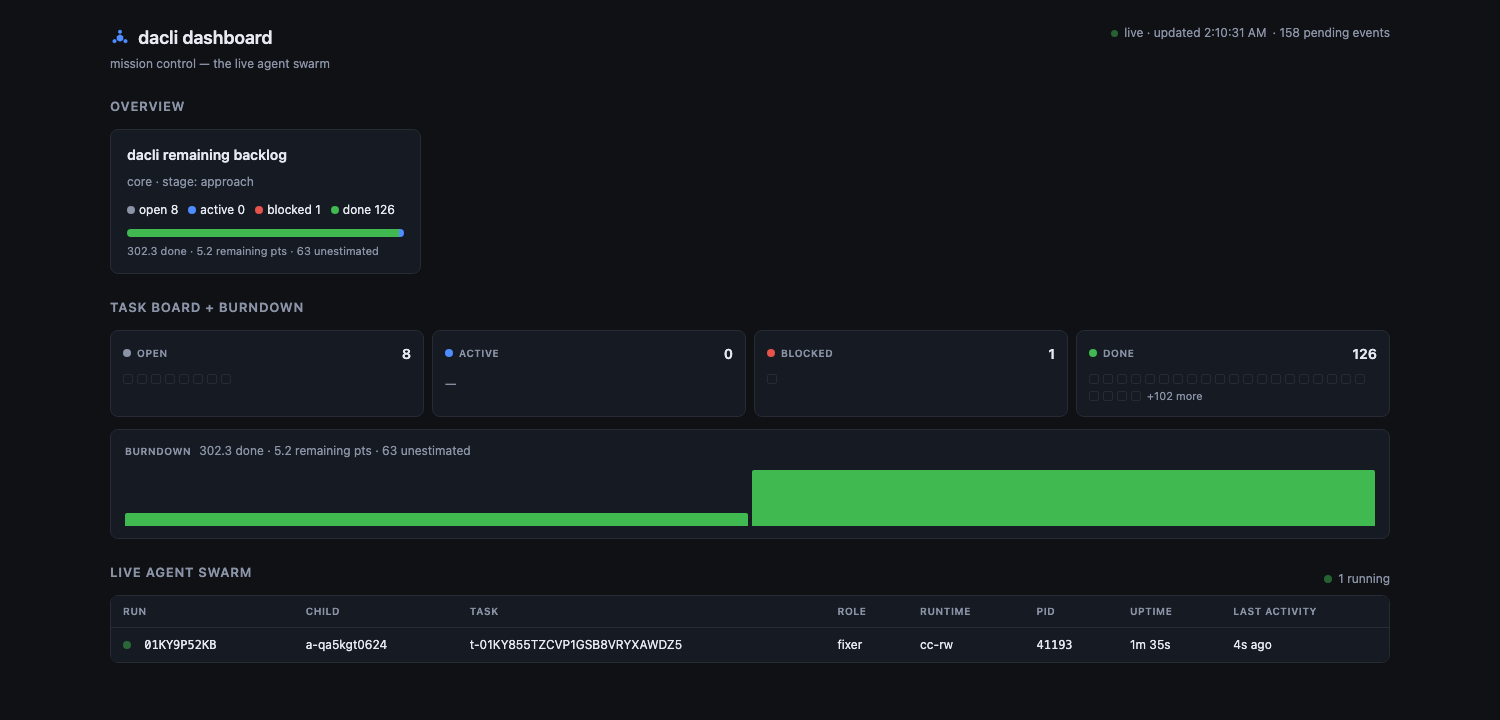
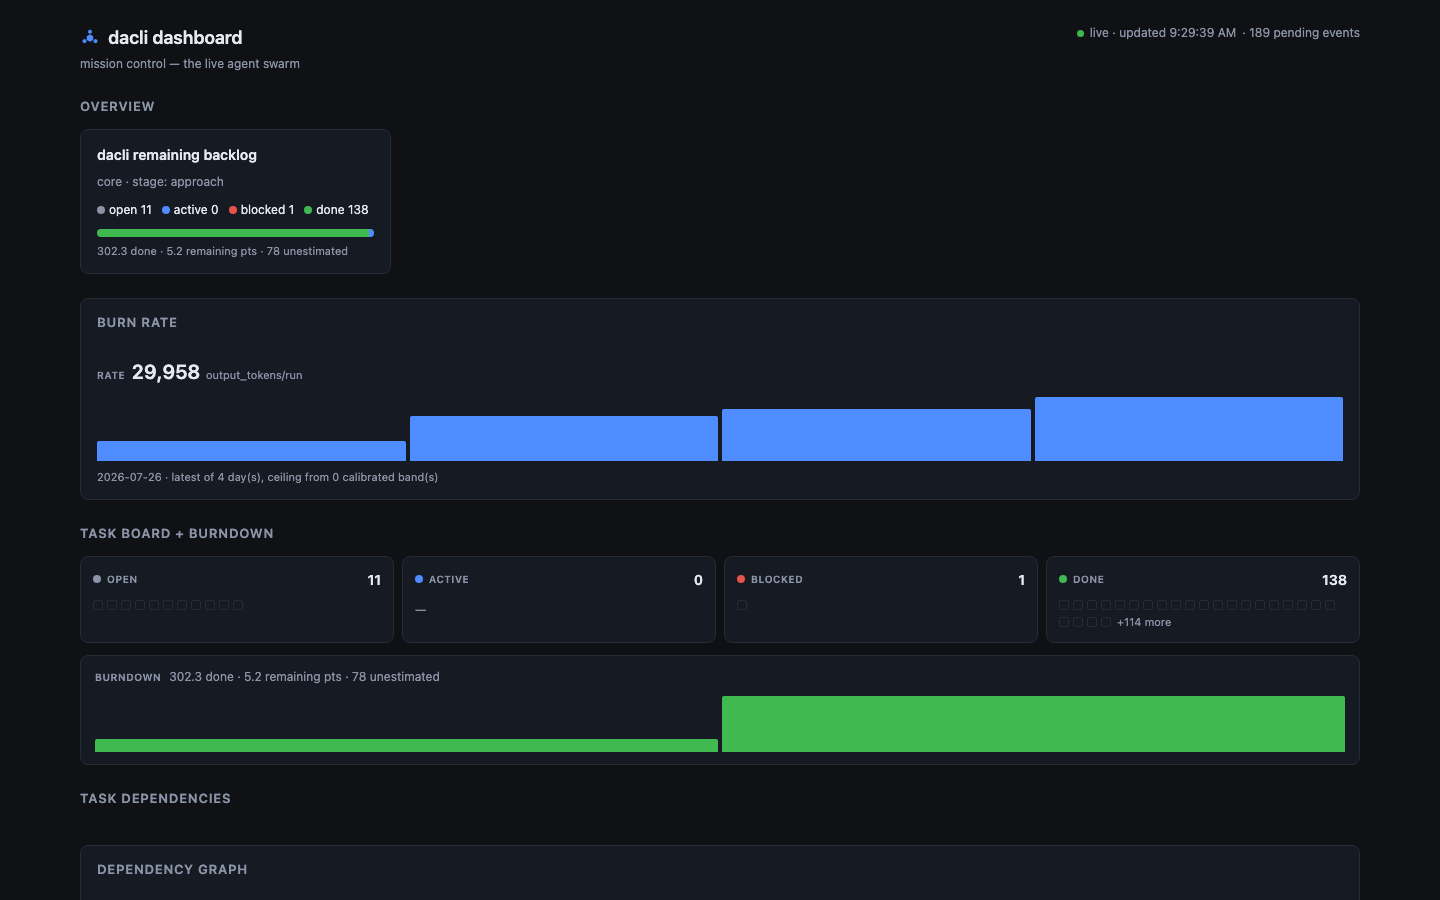
docs: conversion-focused custom landing page
Replace the plain Material markdown home with a custom dark dev-tool
landing (overrides/home.html + stylesheets/landing.css): outcome-led
hero ("Your codebase, run by an AI team"), the new Vue dashboard as the
product visual, the "it built itself / 100+ PRs" proof strip, the loop
flow, a feature bento, a 3-command quickstart, and a closing CTA.
dacli's own identity — lattice mark, blue accent, IBM Plex Mono +
Space Grotesk. Material header set to black so it blends with the
always-dark landing; the docs pages are untouched.

diff --git a/docs/stylesheets/landing.css b/docs/stylesheets/landing.css
@@ -1,0 +1,191 @@
+/* dacli landing — dark dev-tool aesthetic, single blue accent, mono+display.
+   Scoped under .dacli-landing so it never touches the Material docs pages. */
+
+@import url("https://fonts.googleapis.com/css2?family=Space+Grotesk:wght@500;600;700&family=IBM+Plex+Mono:wght@400;500;600&display=swap");
+
+.dacli-landing {
+  --bg: #0a0d13;
+  --bg-1: #0f141d;
+  --bg-2: #141b27;
+  --line: rgba(120, 150, 210, 0.14);
+  --line-2: rgba(120, 150, 210, 0.28);
+  --fg: #e7ecf4;
+  --fg-dim: #9aa8bd;
+  --fg-mute: #6b7688;
+  --accent: #5b8cff;
+  --accent-soft: rgba(91, 140, 255, 0.14);
+  --ok: #3ecf8e;
+  --mono: "IBM Plex Mono", ui-monospace, "SF Mono", Menlo, monospace;
+  --display: "Space Grotesk", system-ui, sans-serif;
+
+  position: relative;
+  background: var(--bg);
+  color: var(--fg);
+  font-family: var(--mono);
+  overflow: hidden;
+  margin: 0 -100vw;          /* break out of Material's centered content column */
+  padding: 0 100vw;
+}
+
+/* atmospherics: faint grid + two accent vignettes, center-masked */
+.dacli-bg {
+  position: absolute; inset: 0; pointer-events: none; z-index: 0;
+  background-image:
+    linear-gradient(var(--line) 1px, transparent 1px),
+    linear-gradient(90deg, var(--line) 1px, transparent 1px);
+  background-size: 56px 56px;
+  -webkit-mask-image: radial-gradient(ellipse 90% 60% at 50% 20%, #000 0%, transparent 75%);
+          mask-image: radial-gradient(ellipse 90% 60% at 50% 20%, #000 0%, transparent 75%);
+  opacity: 0.5;
+}
+.dacli-landing::before {
+  content: ""; position: absolute; inset: 0; z-index: 0; pointer-events: none;
+  background:
+    radial-gradient(60% 40% at 15% 0%, rgba(91,140,255,0.10), transparent 60%),
+    radial-gradient(50% 40% at 100% 30%, rgba(62,207,142,0.06), transparent 60%);
+}
+
+.dacli-landing > * { position: relative; z-index: 1; }
+
+.dacli-landing a { text-decoration: none; }
+.dacli-landing code {
+  font-family: var(--mono); font-size: 0.86em;
+  background: var(--bg-2); border: 1px solid var(--line);
+  border-radius: 6px; padding: 0.14em 0.45em; color: #cfe0ff;
+}
+
+/* section rhythm */
+.dacli-section, .dacli-final { max-width: 1080px; margin: 0 auto; padding: clamp(3rem, 7vh, 5.5rem) 24px; }
+.dacli-label {
+  font-size: 0.7rem; letter-spacing: 0.2em; text-transform: uppercase;
+  color: var(--accent); margin-bottom: 0.9rem;
+}
+.dacli-h1 {
+  font-family: var(--display); font-weight: 700;
+  font-size: clamp(2.4rem, 6vw, 4rem); line-height: 1.04; letter-spacing: -0.02em;
+  margin: 0.5rem 0 0; color: #fafcff;
+}
+.dacli-h2 {
+  font-family: var(--display); font-weight: 600;
+  font-size: clamp(1.5rem, 3.2vw, 2.2rem); line-height: 1.1; letter-spacing: -0.01em;
+  margin: 0 0 0.6rem; color: #fafcff;
+}
+.dacli-lede { color: var(--fg-dim); font-size: 1rem; line-height: 1.6; max-width: 60ch; }
+.dacli-lede--dim { color: var(--fg-mute); }
+.dacli-lede strong, .dacli-sub strong { color: var(--fg); }
+
+/* HERO */
+.dacli-hero {
+  max-width: 1180px; margin: 0 auto;
+  padding: clamp(3rem, 9vh, 6rem) 24px clamp(2rem, 5vh, 3.5rem);
+  display: grid; grid-template-columns: 1.05fr 1fr; gap: clamp(2rem, 5vw, 4rem);
+  align-items: center;
+}
+.dacli-eyebrow {
+  display: inline-block; font-size: 0.72rem; letter-spacing: 0.16em;
+  text-transform: uppercase; color: var(--accent);
+  border: 1px solid var(--line-2); border-radius: 100px; padding: 0.3rem 0.8rem;
+  background: var(--accent-soft);
+}
+.dacli-sub {
+  color: var(--fg-dim); font-size: 1.08rem; line-height: 1.6;
+  max-width: 52ch; margin: 1.1rem 0 0;
+}
+.dacli-cta { display: flex; flex-wrap: wrap; gap: 0.75rem; margin: 1.6rem 0 1.1rem; }
+.dacli-btn {
+  font-family: var(--display); font-weight: 600; font-size: 0.95rem;
+  padding: 0.7rem 1.3rem; border-radius: 10px; border: 1px solid transparent;
+  transition: transform 150ms cubic-bezier(.22,.61,.36,1), box-shadow 150ms, background 150ms, border-color 150ms;
+}
+.dacli-btn--primary {
+  background: var(--accent); color: #06122e;
+  box-shadow: 0 8px 30px -10px rgba(91,140,255,0.6);
+}
+.dacli-btn--primary:hover { transform: translateY(-2px); box-shadow: 0 14px 40px -10px rgba(91,140,255,0.75); }
+.dacli-btn--ghost { color: var(--fg); border-color: var(--line-2); background: rgba(255,255,255,0.02); }
+.dacli-btn--ghost:hover { border-color: var(--accent); color: #fff; transform: translateY(-2px); }
+
+.dacli-install {
+  display: flex; flex-wrap: wrap; align-items: baseline; gap: 0.5rem 0.9rem;
+  padding: 0.7rem 0.9rem; border: 1px solid var(--line); border-radius: 10px;
+  background: var(--bg-1); width: fit-content; max-width: 100%;
+}
+.dacli-install > code { background: transparent; border: none; color: var(--ok); font-size: 0.92rem; padding: 0; }
+.dacli-install__alt { color: var(--fg-mute); font-size: 0.78rem; }
+.dacli-install__alt code { font-size: 0.78rem; }
+.dacli-badges { list-style: none; display: flex; flex-wrap: wrap; gap: 0.5rem; margin: 1.2rem 0 0; padding: 0; }
+.dacli-badges li {
+  font-size: 0.72rem; color: var(--fg-dim);
+  border: 1px solid var(--line); border-radius: 6px; padding: 0.22rem 0.6rem; background: var(--bg-1);
+}
+
+/* hero visual — framed screenshot */
+.dacli-shot {
+  border: 1px solid var(--line-2); border-radius: 14px; overflow: hidden;
+  background: var(--bg-1);
+  box-shadow: 0 30px 80px -30px rgba(0,0,0,0.8), 0 0 0 1px rgba(91,140,255,0.08);
+}
+.dacli-shot__bar { display: flex; gap: 6px; padding: 10px 12px; border-bottom: 1px solid var(--line); background: var(--bg-2); }
+.dacli-shot__bar span { width: 10px; height: 10px; border-radius: 50%; background: var(--fg-mute); opacity: 0.5; }
+.dacli-shot img { display: block; width: 100%; height: auto; }
+.dacli-shot__cap { text-align: center; color: var(--fg-mute); font-size: 0.78rem; margin: 0.7rem 0 0; }
+
+/* PROOF strip */
+.dacli-proof {
+  border-top: 1px solid var(--line); border-bottom: 1px solid var(--line);
+  background: linear-gradient(180deg, rgba(91,140,255,0.04), transparent);
+}
+.dacli-proof p {
+  max-width: 1080px; margin: 0 auto; padding: 1.6rem 24px;
+  color: var(--fg-dim); font-size: 0.98rem; line-height: 1.7; text-align: center;
+}
+.dacli-proof__num { color: var(--accent); font-weight: 600; font-size: 1.15em; }
+.dacli-proof__sep { display: block; color: var(--fg-mute); font-size: 0.85rem; margin-top: 0.3rem; }
+
+/* flow */
+.dacli-flow { display: flex; flex-wrap: wrap; align-items: center; gap: 0.5rem; margin: 1.4rem 0; }
+.dacli-node {
+  font-size: 0.85rem; color: var(--fg); background: var(--bg-1);
+  border: 1px solid var(--line-2); border-radius: 8px; padding: 0.45rem 0.85rem;
+}
+.dacli-node--accent { color: #06122e; background: var(--accent); border-color: var(--accent); font-weight: 600; }
+.dacli-flow i { color: var(--fg-mute); font-style: normal; }
+
+/* bento */
+.dacli-bento { display: grid; grid-template-columns: repeat(2, 1fr); gap: 1rem; margin-top: 1.5rem; }
+.dacli-card {
+  border: 1px solid var(--line); border-radius: 14px; padding: 1.5rem;
+  background: linear-gradient(180deg, var(--bg-1), var(--bg));
+  transition: transform 160ms cubic-bezier(.22,.61,.36,1), border-color 160ms, box-shadow 160ms;
+}
+.dacli-card:hover { transform: translateY(-3px); border-color: var(--line-2); box-shadow: 0 20px 50px -25px rgba(91,140,255,0.35); }
+.dacli-card--wide { grid-column: span 2; }
+.dacli-card h3 { font-family: var(--display); font-weight: 600; font-size: 1.12rem; margin: 0 0 0.5rem; color: #fafcff; }
+.dacli-card p { color: var(--fg-dim); font-size: 0.92rem; line-height: 1.6; margin: 0; }
+
+/* steps */
+.dacli-steps { display: grid; grid-template-columns: repeat(3, 1fr); gap: 1rem; margin-top: 1.4rem; }
+.dacli-step { display: flex; gap: 0.9rem; align-items: flex-start; border: 1px solid var(--line); border-radius: 12px; padding: 1.2rem; background: var(--bg-1); }
+.dacli-step > span {
+  flex: none; width: 30px; height: 30px; border-radius: 8px; display: grid; place-items: center;
+  font-family: var(--display); font-weight: 700; color: var(--accent);
+  background: var(--accent-soft); border: 1px solid var(--line-2);
+}
+.dacli-step h3 { font-family: var(--display); font-size: 0.95rem; margin: 0.2rem 0 0.5rem; color: var(--fg); }
+.dacli-step code { display: inline-block; font-size: 0.8rem; }
+
+/* final CTA */
+.dacli-final { text-align: center; padding-bottom: clamp(4rem, 9vh, 7rem); }
+.dacli-final .dacli-cta { justify-content: center; }
+
+/* responsive */
+@media (max-width: 860px) {
+  .dacli-hero { grid-template-columns: 1fr; }
+  .dacli-hero__visual { order: 2; }
+  .dacli-bento, .dacli-steps { grid-template-columns: 1fr; }
+  .dacli-card--wide { grid-column: span 1; }
+}
+
+@media (prefers-reduced-motion: reduce) {
+  .dacli-btn, .dacli-card { transition: none; }
+}

diff --git a/overrides/home.html b/overrides/home.html
@@ -1,0 +1,130 @@
+{% extends "main.html" %}
+
+<!--
+  Custom conversion landing for dacli. Material renders this in place of the
+  default markdown home (docs/index.md sets `template: home.html`). The hero +
+  sections live in the `tabs` block (full-bleed, above the normal content area);
+  the `content` block is emptied so the page is the landing, not a doc page.
+-->
+
+{% block tabs %}
+{{ super() }}
+
+<section class="dacli-landing">
+  <div class="dacli-bg" aria-hidden="true"></div>
+
+  <!-- HERO -->
+  <header class="dacli-hero">
+    <div class="dacli-hero__copy">
+      <div class="dacli-eyebrow">◆ autonomous engineering, governed</div>
+      <h1 class="dacli-h1">Your codebase, run by an AI&nbsp;team.</h1>
+      <p class="dacli-sub">
+        dacli is a governed swarm of agents that plans, builds, reviews, and
+        ships your software — safely enough to run unattended. It
+        <strong>built itself</strong>, across 100+ merged PRs.
+      </p>
+
+      <div class="dacli-cta">
+        <a class="dacli-btn dacli-btn--primary" href="WALKTHROUGH/">Get started →</a>
+        <a class="dacli-btn dacli-btn--ghost" href="https://github.com/mlnomadpy/dacli">View on GitHub</a>
+      </div>
+
+      <div class="dacli-install" role="group" aria-label="install command">
+        <code>brew install mlnomadpy/tap/dacli</code>
+        <span class="dacli-install__alt">or <code>go install github.com/mlnomadpy/dacli/cmd/dacli@latest</code></span>
+      </div>
+
+      <ul class="dacli-badges" aria-label="project facts">
+        <li>alpha</li><li>Go · zero deps</li><li>CLI + MCP</li><li>MIT</li>
+      </ul>
+    </div>
+
+    <div class="dacli-hero__visual">
+      <div class="dacli-shot">
+        <div class="dacli-shot__bar" aria-hidden="true"><span></span><span></span><span></span></div>
+        <img src="assets/dashboard.png" alt="dacli dashboard — mission control: burn-rate, task board, and the live dependency graph" loading="eager">
+      </div>
+      <p class="dacli-shot__cap"><code>dacli dashboard</code> — mission control for the live agent swarm</p>
+    </div>
+  </header>
+
+  <!-- PROOF -->
+  <section class="dacli-proof">
+    <p>
+      <span class="dacli-proof__num">100+</span> merged PRs, written and reviewed by the swarm.
+      <span class="dacli-proof__num">6</span> bugs it found in its own governor and fixed.
+      <span class="dacli-proof__sep">This page, the docs, and the dashboard — all built by dacli, running dacli.</span>
+    </p>
+  </section>
+
+  <!-- HOW IT WORKS -->
+  <section class="dacli-section">
+    <div class="dacli-label">01 · the loop</div>
+    <h2 class="dacli-h2">Set the direction. It runs the sprint.</h2>
+    <p class="dacli-lede">
+      One command runs the whole process — review, plan, implement, test, land,
+      retro — then around again, with no human in the loop.
+    </p>
+    <div class="dacli-flow" aria-label="the perpetual loop">
+      <span class="dacli-node">review</span><i>→</i>
+      <span class="dacli-node">plan</span><i>→</i>
+      <span class="dacli-node">implement</span><i>→</i>
+      <span class="dacli-node">test</span><i>→</i>
+      <span class="dacli-node dacli-node--accent">land green PRs</span><i>↺</i>
+    </div>
+    <p class="dacli-lede dacli-lede--dim">
+      A pure <strong>governor</strong> gates every cycle: empty backlog → it idles
+      (never invents busywork); budget spent → it sleeps; nothing lands for N
+      cycles → it halts. It knows when to stop.
+    </p>
+  </section>
+
+  <!-- BENTO -->
+  <section class="dacli-section">
+    <div class="dacli-label">02 · what you get</div>
+    <div class="dacli-bento">
+      <article class="dacli-card dacli-card--wide">
+        <h3>Context on tap</h3>
+        <p>Each subagent starts blind. <code>dacli context &lt;task&gt; --budget N</code> hands it one self-contained, token-budgeted brief — task, goal, constraints, prior decisions, siblings' findings — instead of the whole repo.</p>
+      </article>
+      <article class="dacli-card">
+        <h3>A real agent fleet</h3>
+        <p><code>spawn</code> launches child coding-agent CLIs in isolated worktrees; <code>--claim</code> reserves files; <code>wait</code>, <code>accept</code>, <code>ship</code> tie off a whole wave.</p>
+      </article>
+      <article class="dacli-card">
+        <h3>Governed, not runaway</h3>
+        <p>A trust-floor on every brief, a <code>taint</code> gate against injected sources, calibrated token budgets, and a loop that halts on thrash. Safe to leave running.</p>
+      </article>
+      <article class="dacli-card">
+        <h3>Mission control</h3>
+        <p><code>dacli dashboard</code> shows the live swarm, burn-rate, the task DAG, and per-agent state (thinking · acting · waiting · stalled) — one binary, zero CDN.</p>
+      </article>
+      <article class="dacli-card dacli-card--wide">
+        <h3>GitHub, both ways · everything recorded</h3>
+        <p>Tasks ↔ issues, findings → issues, PRs that self-land on green CI. Every run freezes its brief, invocation, transcript, and outcome; every commit is attributed to the agent and role that authored it.</p>
+      </article>
+    </div>
+  </section>
+
+  <!-- QUICKSTART -->
+  <section class="dacli-section">
+    <div class="dacli-label">03 · in three commands</div>
+    <div class="dacli-steps">
+      <div class="dacli-step"><span>1</span><div><h3>Install</h3><code>brew install mlnomadpy/tap/dacli</code></div></div>
+      <div class="dacli-step"><span>2</span><div><h3>Adopt your repo</h3><code>dacli adopt --provision-roles</code></div></div>
+      <div class="dacli-step"><span>3</span><div><h3>Run the team</h3><code>dacli loop --project core</code></div></div>
+    </div>
+  </section>
+
+  <!-- FOOTER CTA -->
+  <section class="dacli-final">
+    <h2 class="dacli-h2">Point it at a repo. Watch it ship.</h2>
+    <div class="dacli-cta">
+      <a class="dacli-btn dacli-btn--primary" href="WALKTHROUGH/">Read the walkthrough →</a>
+      <a class="dacli-btn dacli-btn--ghost" href="https://github.com/mlnomadpy/dacli">Star on GitHub</a>
+    </div>
+  </section>
+</section>
+{% endblock %}
+
+{% block content %}{% endblock %}

diff --git a/docs/index.md b/docs/index.md
@@ -1,3 +1,11 @@
+---
+template: home.html
+title: "dacli — your autonomous engineering team"
+---
+
+<!-- The home page is rendered by overrides/home.html (a custom conversion
+     landing). This markdown is a fallback and is not shown on the site. -->
+
 # dacli
 
 <p align="center">
